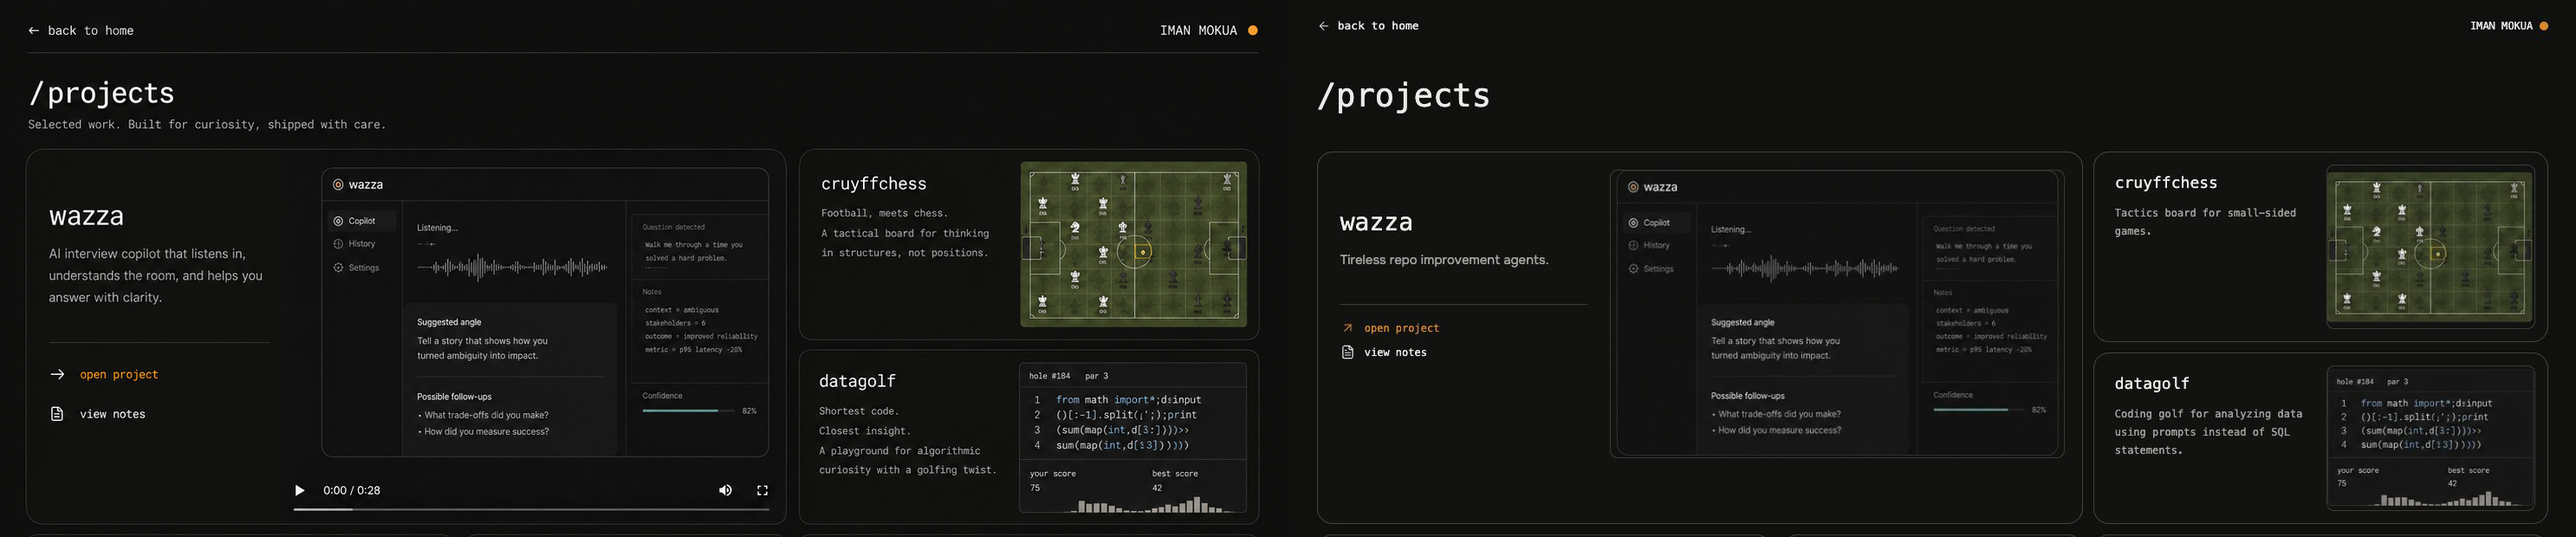
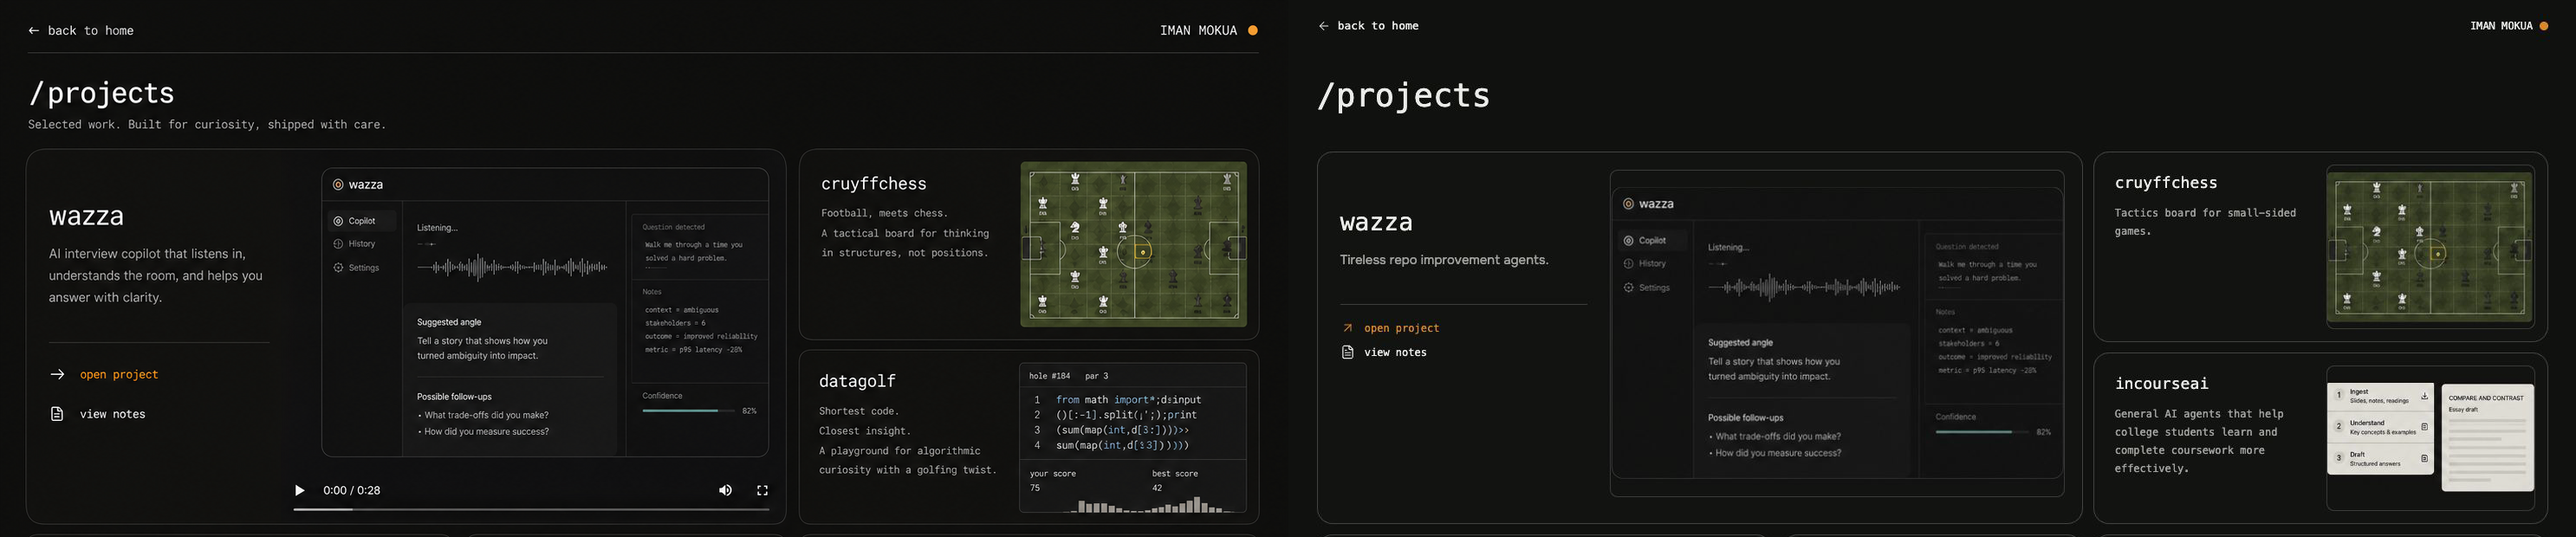
Apply projects page annotations

diff --git a/src/features/projects/project-data.ts b/src/features/projects/project-data.ts
@@ -37,15 +37,15 @@ export const projects: Project[] = [
     },
   },
   {
-    id: "datagolf",
-    name: "datagolf",
+    id: "incourseai",
+    name: "incourseai",
     description:
-      "Coding golf for analyzing data using prompts instead of SQL statements.",
+      "General AI agents that help college students learn and complete coursework more effectively.",
     layout: "landscape",
     media: {
       kind: "image",
-      poster: "/projects/posters/datagolf.png",
-      alt: "Datagolf code challenge interface",
+      poster: "/projects/posters/incourseai.png",
+      alt: "InCourse AI coursework workflow",
     },
   },
   {
@@ -61,15 +61,15 @@ export const projects: Project[] = [
     },
   },
   {
-    id: "incourseai",
-    name: "incourseai",
+    id: "datagolf",
+    name: "datagolf",
     description:
-      "General AI agents that help college students learn and complete coursework more effectively.",
+      "Coding golf for analyzing data using prompts instead of SQL statements.",
     layout: "tall",
     media: {
       kind: "image",
-      poster: "/projects/posters/incourseai.png",
-      alt: "InCourse AI coursework workflow",
+      poster: "/projects/posters/datagolf.png",
+      alt: "Datagolf code challenge interface",
     },
   },
   {
@@ -94,18 +94,5 @@ export const projects: Project[] = [
       poster: "/projects/posters/mem-arctec.png",
       alt: "Memory architecture diagram",
     },
-  },
-  {
-    id: "dogbed-db",
-    name: "dogbed_db",
-    description: "Playground to explore internals of dogbed databases.",
-    layout: "text",
-  },
-  {
-    id: "ss-devices",
-    name: "ss-devices-proj",
-    description:
-      "Analysis of semiconductor carrier properties across doping levels and temperature.",
-    layout: "text",
   },
 ];

diff --git a/src/features/projects/projects.module.css b/src/features/projects/projects.module.css
@@ -81,7 +81,7 @@
   display: grid;
   grid-auto-rows: 160px;
   grid-template-columns: repeat(16, minmax(0, 1fr));
-  grid-template-rows: 220px 198px 170px 170px 160px;
+  grid-template-rows: 220px 198px 170px 170px;
   gap: 12px;
 }
 
@@ -212,7 +212,7 @@
 
 .featured .mediaFrame {
   min-height: 240px;
-  margin: 20px 20px 75px 0;
+  margin: 20px 20px 30px 0;
 }
 
 .landscape .cardInner,
@@ -231,7 +231,7 @@
   grid-row: 1;
 }
 
-.datagolf {
+.incourseai {
   grid-column: 11 / span 6;
   grid-row: 2;
 }
@@ -257,7 +257,7 @@
   grid-row: 3 / span 2;
 }
 
-.incourseai {
+.datagolf {
   grid-column: 7 / span 4;
   grid-row: 3 / span 2;
 }
@@ -270,24 +270,6 @@
 .mem-arctec {
   grid-column: 11 / span 6;
   grid-row: 4;
-}
-
-.text .cardInner {
-  grid-template-columns: 1fr;
-}
-
-.text .cardContent {
-  justify-content: flex-start;
-}
-
-.dogbed-db {
-  grid-column: 1 / span 8;
-  grid-row: 5;
-}
-
-.ss-devices {
-  grid-column: 9 / span 8;
-  grid-row: 5;
 }
 
 .footer {
@@ -331,7 +313,7 @@
     grid-row: 3;
   }
 
-  .datagolf {
+  .incourseai {
     grid-column: 4 / span 3;
     grid-row: 3;
   }
@@ -341,7 +323,7 @@
     grid-row: 4 / span 2;
   }
 
-  .incourseai {
+  .datagolf {
     grid-column: 4 / span 3;
     grid-row: 4 / span 2;
   }
@@ -354,16 +336,6 @@
   .mem-arctec {
     grid-column: 4 / span 3;
     grid-row: 6;
-  }
-
-  .dogbed-db {
-    grid-column: 1 / span 3;
-    grid-row: 7;
-  }
-
-  .ss-devices {
-    grid-column: 4 / span 3;
-    grid-row: 7;
   }
 }
 

diff --git a/src/features/projects/types.ts b/src/features/projects/types.ts
@@ -2,8 +2,7 @@ export type ProjectLayout =
   | "featured"
   | "landscape"
   | "tall"
-  | "compact"
-  | "text";
+  | "compact";
 
 export interface ProjectMedia {
   alt: string;

diff --git a/design-qa.md b/design-qa.md
@@ -22,8 +22,8 @@ No actionable P0, P1, or P2 differences remain.
 - Spacing and layout rhythm: the 16-column desktop grid reproduces the featured-left and stacked-right proportions. The top and lower rows align with the source, cards use 18px radii, and the shell keeps narrow edge padding at wide viewports.
 - Colors and visual tokens: the near-black background, low-contrast card borders, warm white type, muted body copy, and orange action/status accent match the source treatment.
 - Image quality and asset fidelity: temporary project posters are direct crops from the approved visual source and use `object-fit: contain`. They remain sharp at their rendered sizes and can be replaced by final screenshots or video URLs without layout changes.
-- Copy and content: production project descriptions were preserved instead of adopting mock-only copy. The requested subtitle and top divider were intentionally removed. Two existing projects remain below the first viewport rather than being dropped.
-- Responsive behavior: at 390 x 844 the grid stacks into one column, all nine cards remain readable, and `scrollWidth` equals the 390px viewport width.
+- Copy and content: production project descriptions were preserved instead of adopting mock-only copy. The requested subtitle, top divider, `dogbed_db`, and `ss-devices-proj` were removed.
+- Responsive behavior: at 390 x 844 the grid stacks into one column, all seven cards remain readable in the intended order, and `scrollWidth` equals the 390px viewport width.
 - Interaction and accessibility: Back to Home navigation was exercised successfully. Links have visible focus states, project imagery has alt text, and the page uses semantic headings, articles, and navigation regions.
 
 ## Comparison History
@@ -31,6 +31,7 @@ No actionable P0, P1, or P2 differences remain.
 1. Initial pass found P2 proportion drift: the featured card and right stack were too evenly sized. Fixed by moving to a 16-column grid with explicit desktop row heights. Post-fix evidence: `design-qa/full-comparison.png`.
 2. Initial pass found P2 image cropping in Wazza, Baby Fathom, and InCourse AI. Fixed by containing the supplied artwork and matching the featured media frame dimensions. Post-fix evidence: `design-qa/focused-comparison.png`.
 3. Route-change testing found P2 zero-height image warnings. Fixed by adding stable minimum media heights. A fresh page load produced no console errors or warnings from the projects feature.
+4. Annotation pass enlarged the Wazza media frame and exchanged the complete InCourse AI and Datagolf card positions. Datagolf now owns the taller slot, and the same order is preserved on mobile.
 
 ## Primary Checks
 
